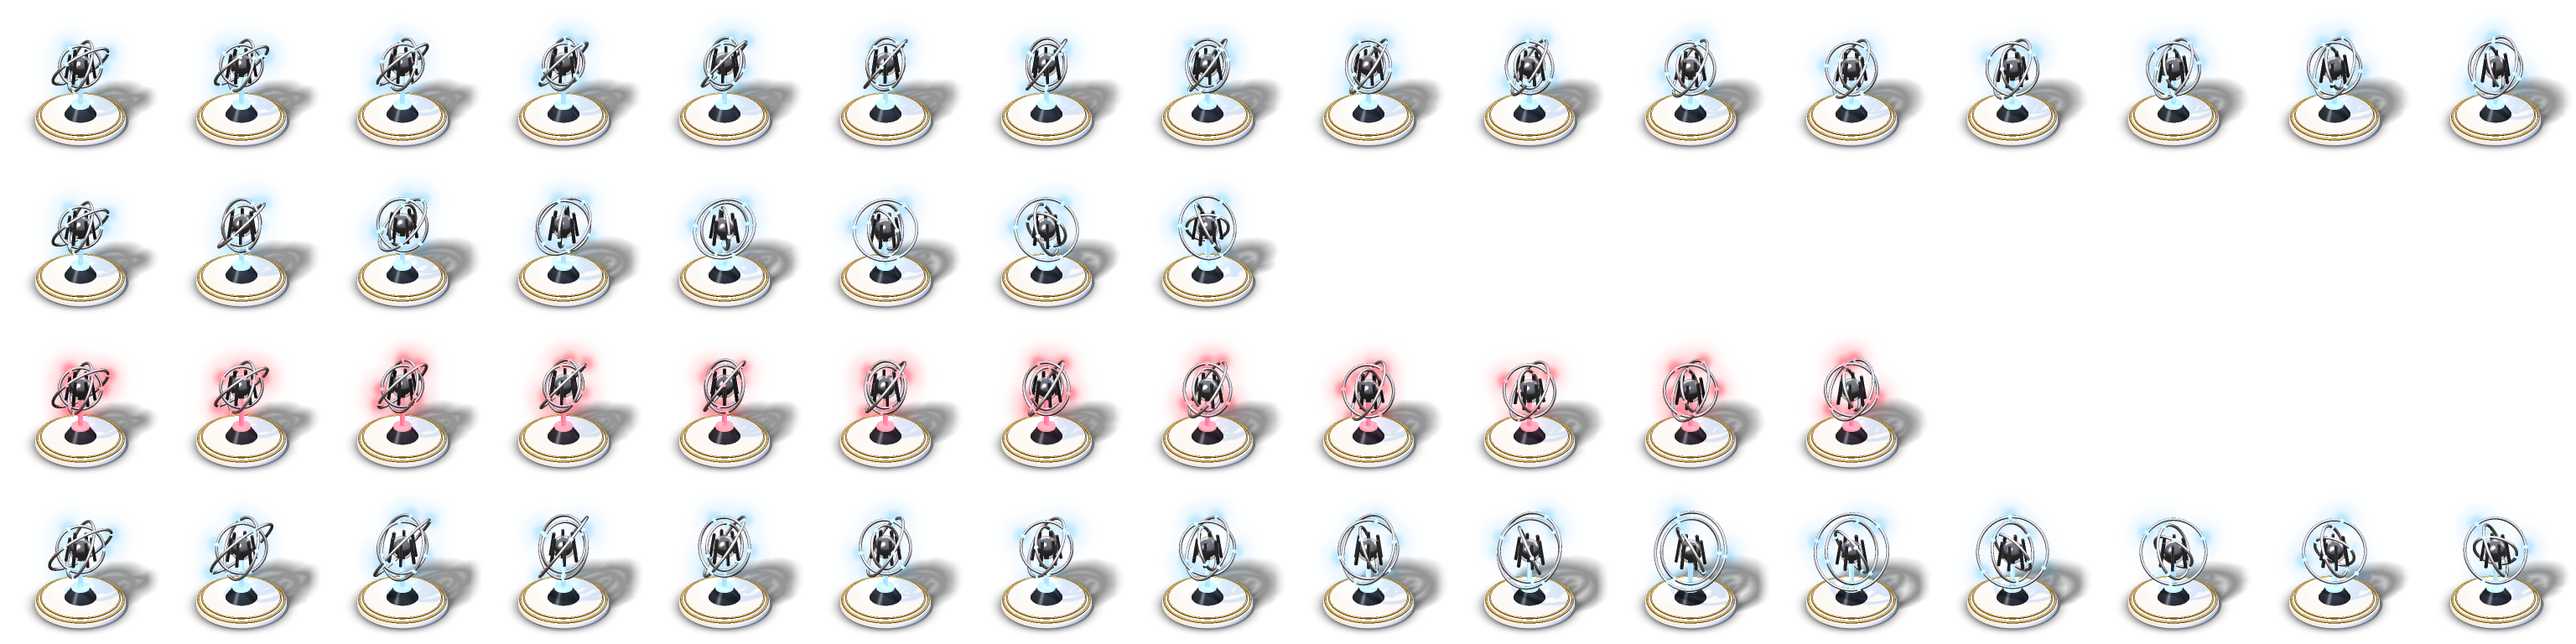
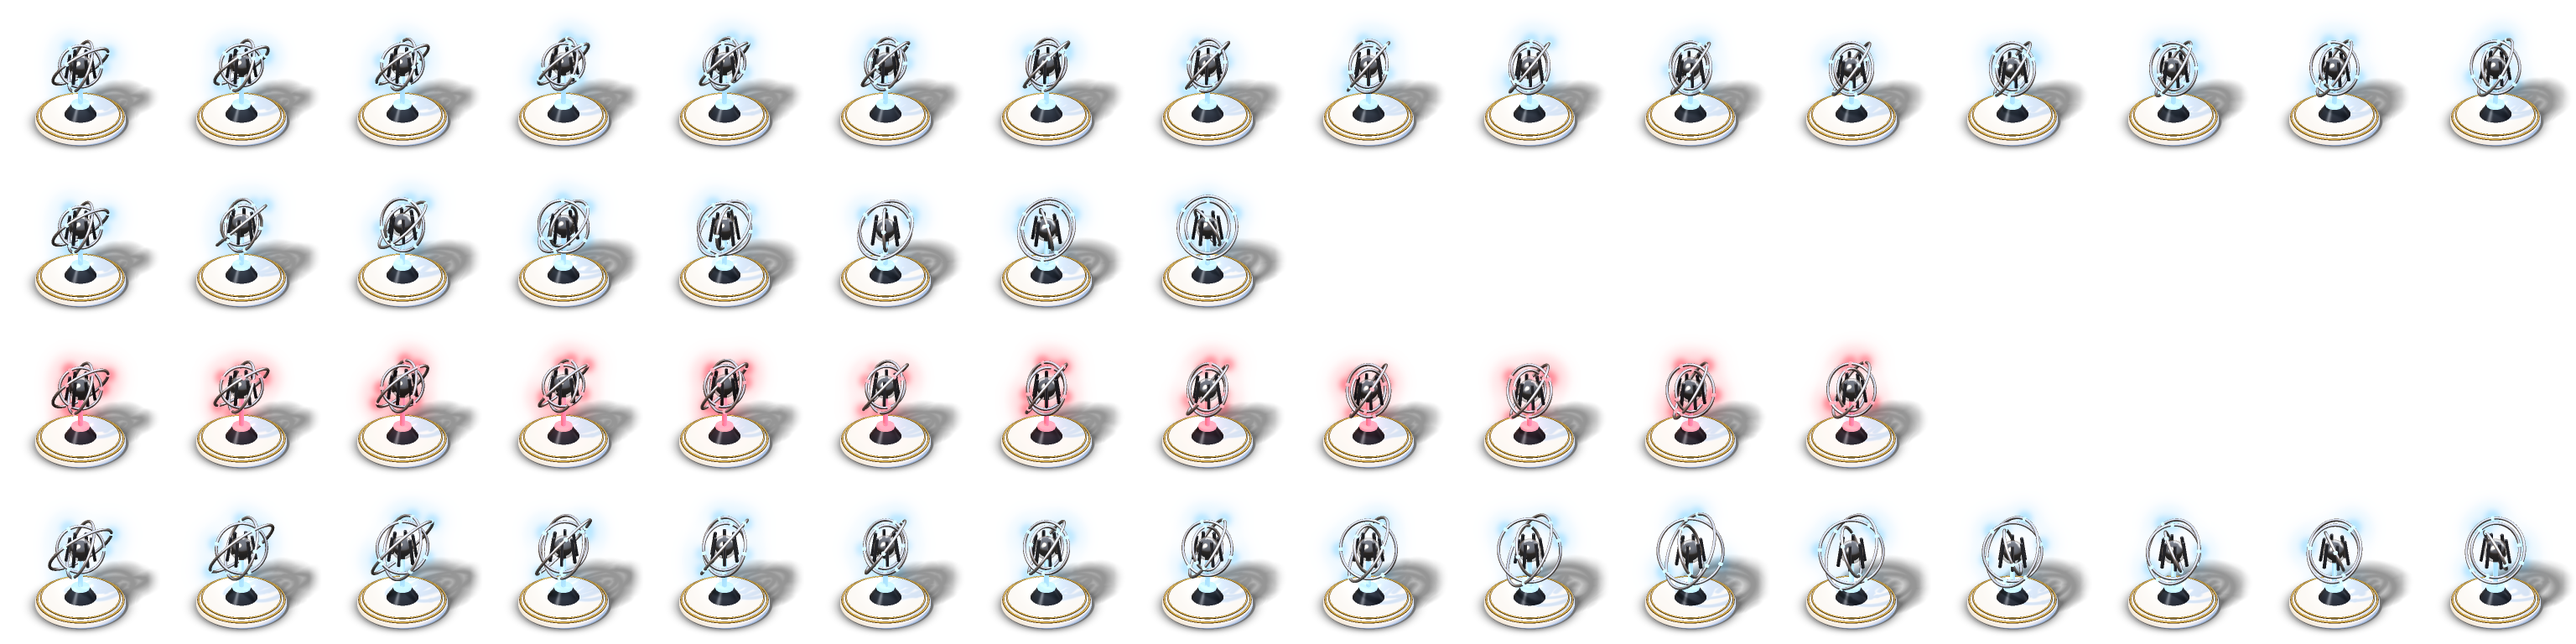
Espace (robots): the AlphaZero core's cage turns 1/6 of a turn per loop (its 6 bars join up; 1/4 made it jump at each loop)

diff --git a/app/tools/sprites/models.py b/app/tools/sprites/models.py
@@ -1241,7 +1241,7 @@ def core(anim, t, side):
     sc.add(sd_cone(0.06, 0.16, 0.08, 0.01), obsidian, T(0, y0 + 0.06, 0))
     sc.add(sd_cylinder(0.012, 0.085, 0.004), glow(col, 4.0), T(0, y0 + 0.125, 0))
     sc.add(sd_cylinder(0.2, 0.02, 0.0), glow(col, 1.5), T(0, y0 + 0.33, 0))
-    c = T(0, y0 + 0.55 + hover, 0) * RY(spin * 0.25)
+    c = T(0, y0 + 0.55 + hover, 0) * RY(spin / 6)          # the cage has 6 bars: 1/6 turn per loop joins up (1/4 jumped)
     # the core: a bright sphere in a faceted dark crystal cage
     sc.add(sd_sphere(0.085), glow("#ffffff", k_core * 0.7), c)
     sc.add(sd_sphere(0.11), Mat("#bfe6ff", glass=True), c)
